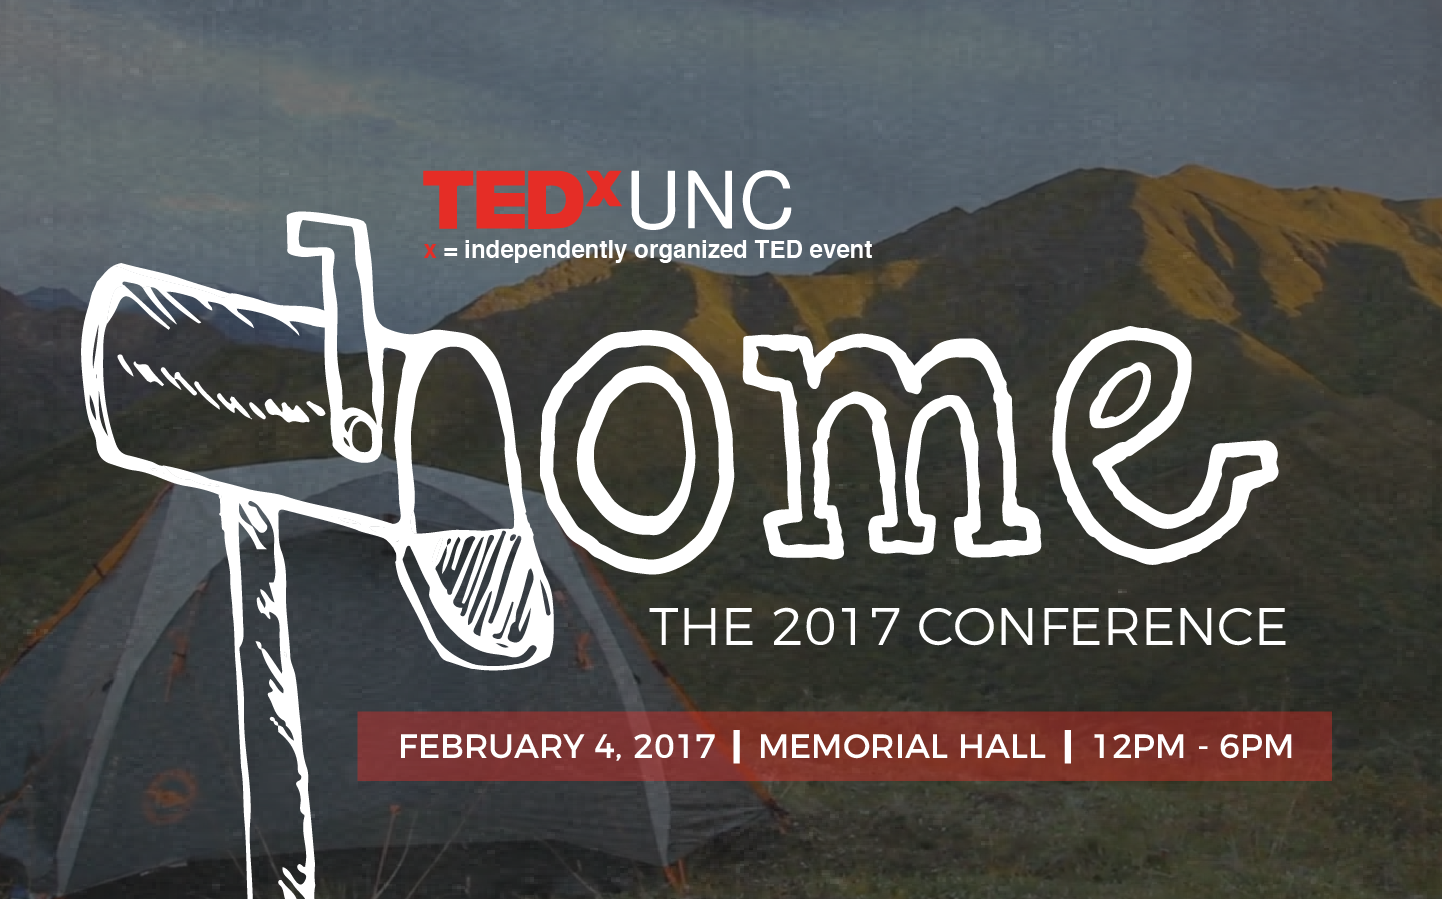
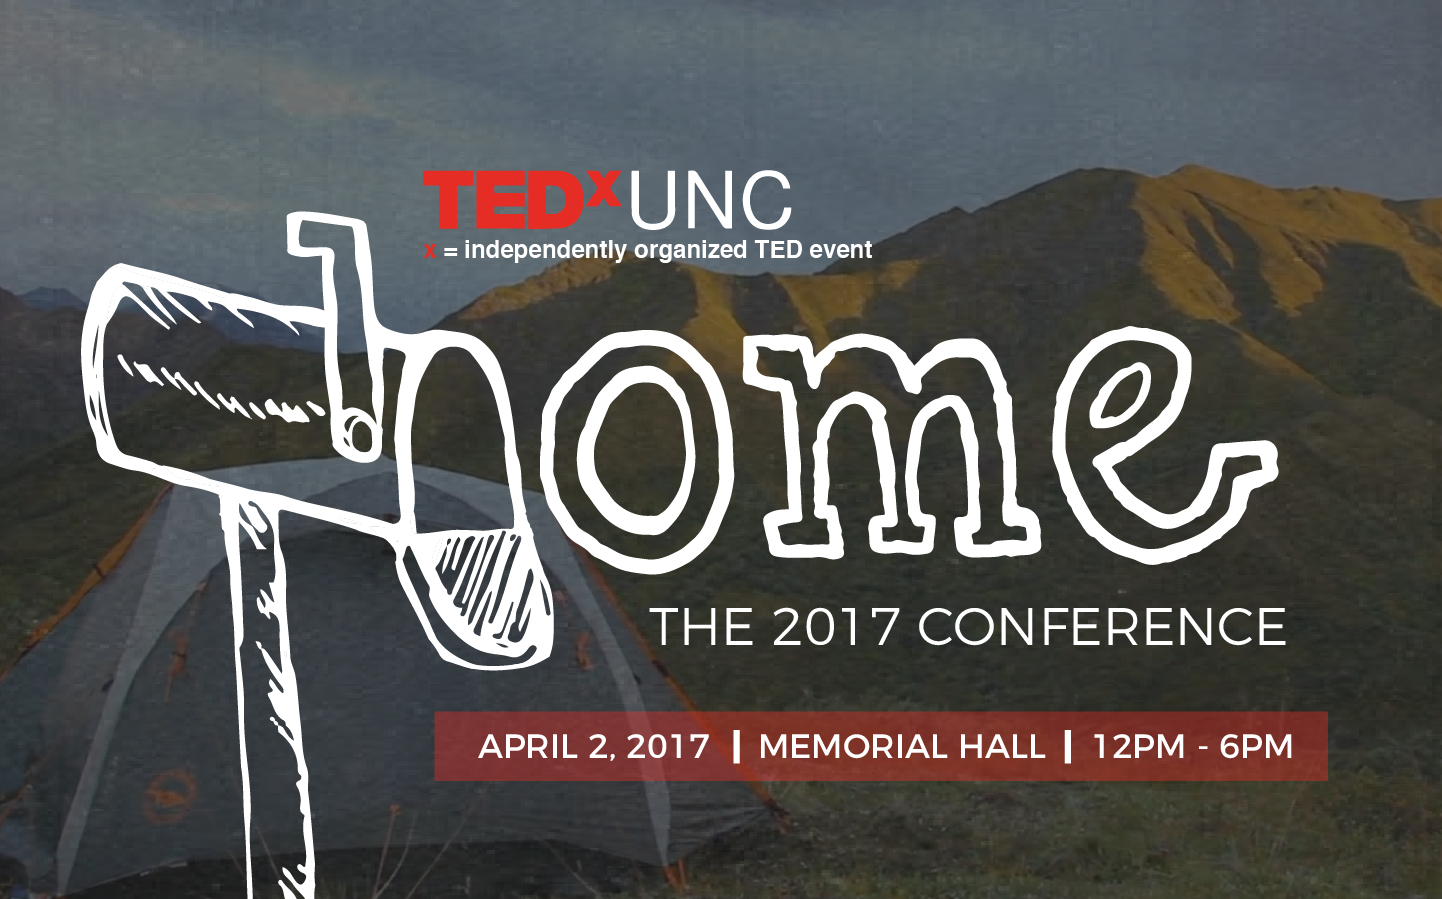
updated date

Changed region(s): [[0.2497, 0.7786, 0.4993, 0.8721]]

diff --git a/scss/index.scss b/scss/index.scss
@@ -319,11 +319,3 @@ video{
   margin-top: 10px;
   margin-bottom: 10px;
 }
-
-.warning{
-  margin-top: 60px;
-  background-color: black;
-  h1{
-    font-size: 250% !important;
-  }
-}
